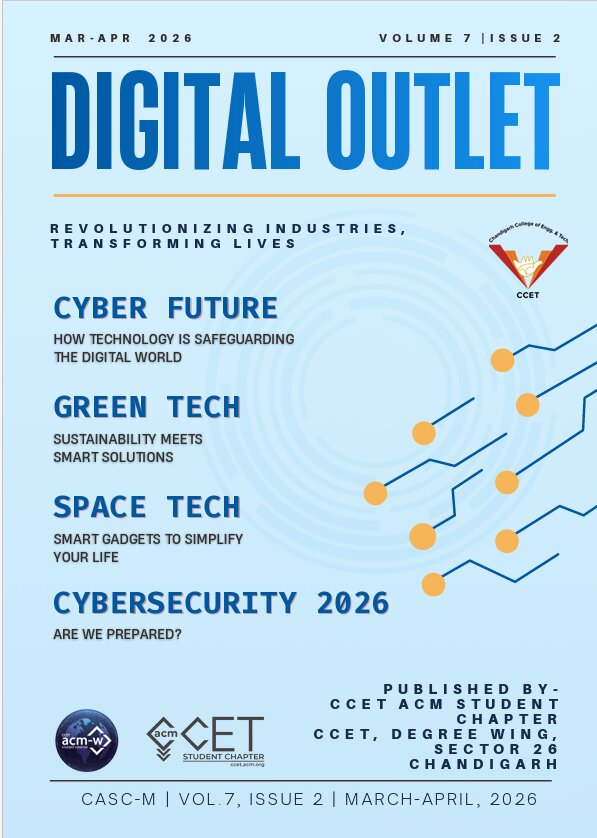
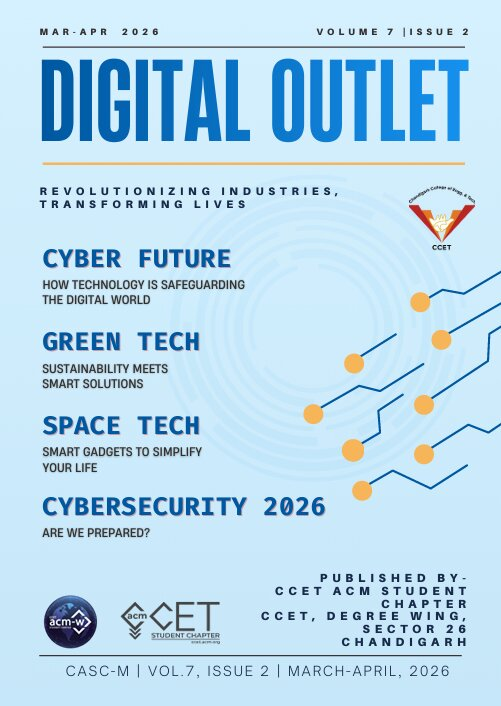
digitaloutlet

diff --git a/src/data/magazinesData.js b/src/data/magazinesData.js
@@ -359,7 +359,7 @@ const magazines = [
     year: 2026,
     issue: "Issue 28 • Mar-Apr 2026",
     image: magzine28,
-    pdf: "/Magazine/pdfs/Volume 7-Issue_2_mar-apr.pdf",
+    pdf: "/Magazine/pdfs/Volume 7-issue_2_mar-apr_pdf.pdf",
     tags: [
       { icon: "fa-shield-alt", label: "Cybersecurity" },
       { icon: "fa-robot", label: "AI" },
